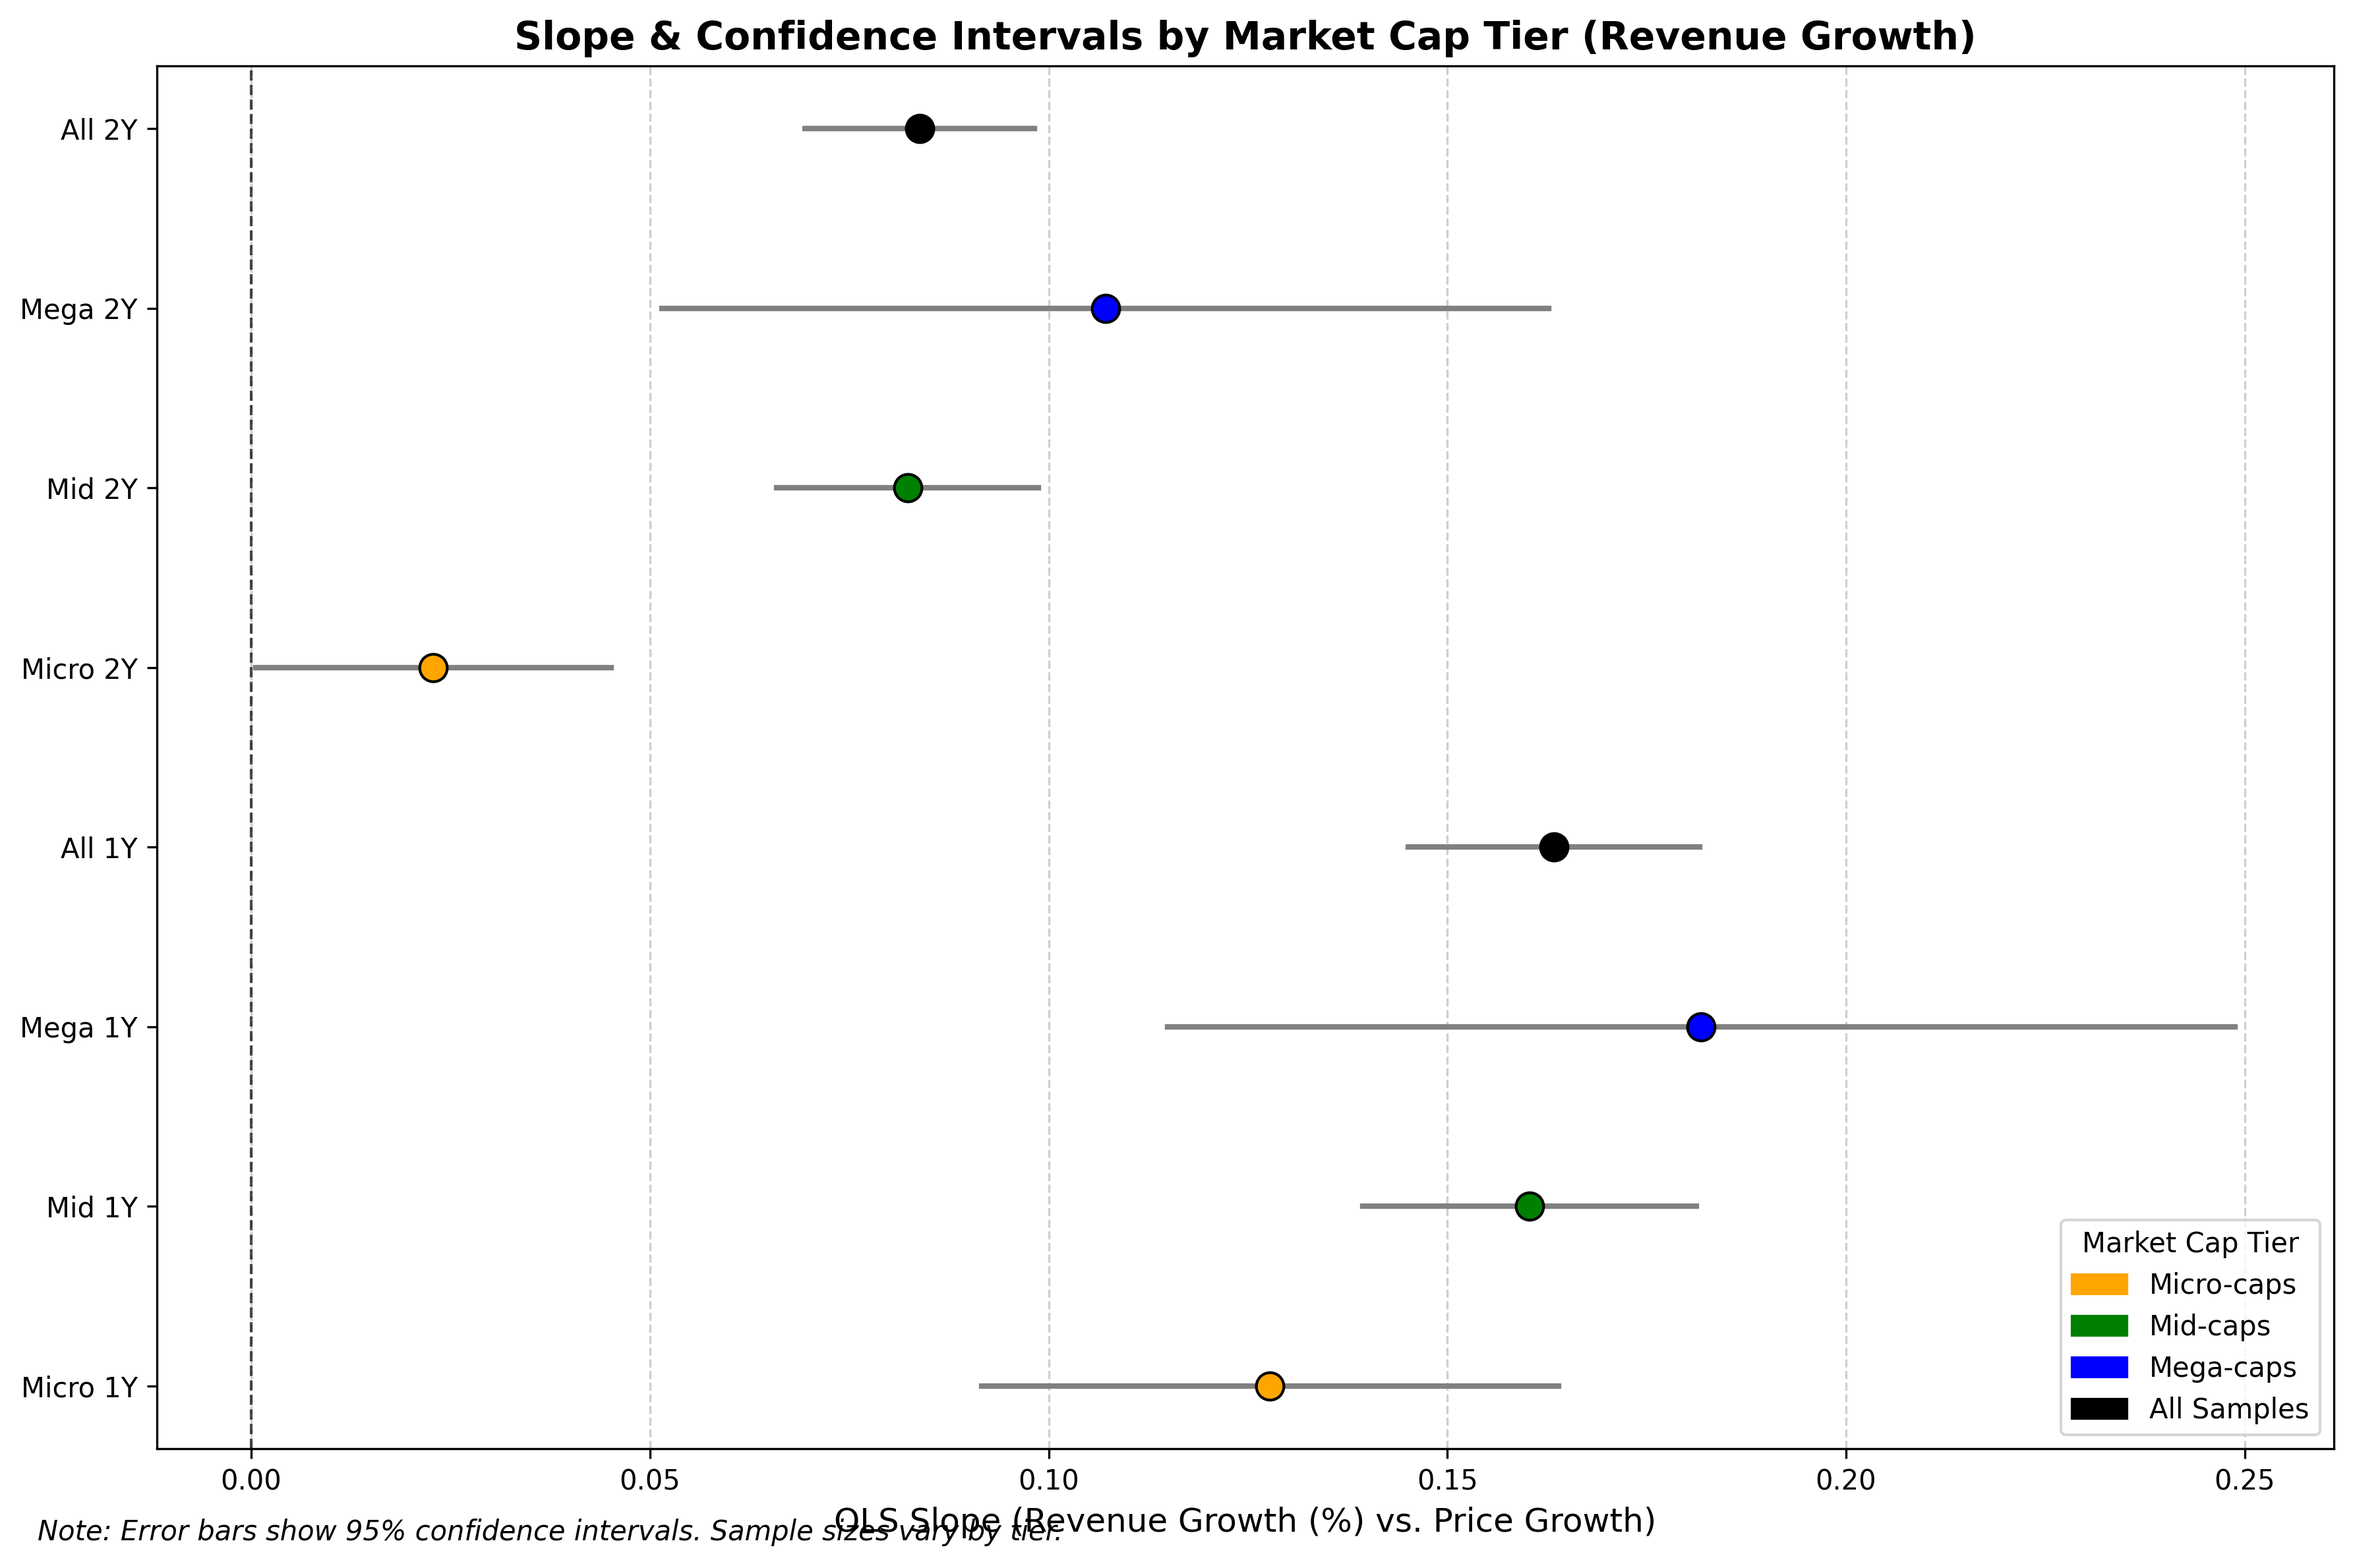
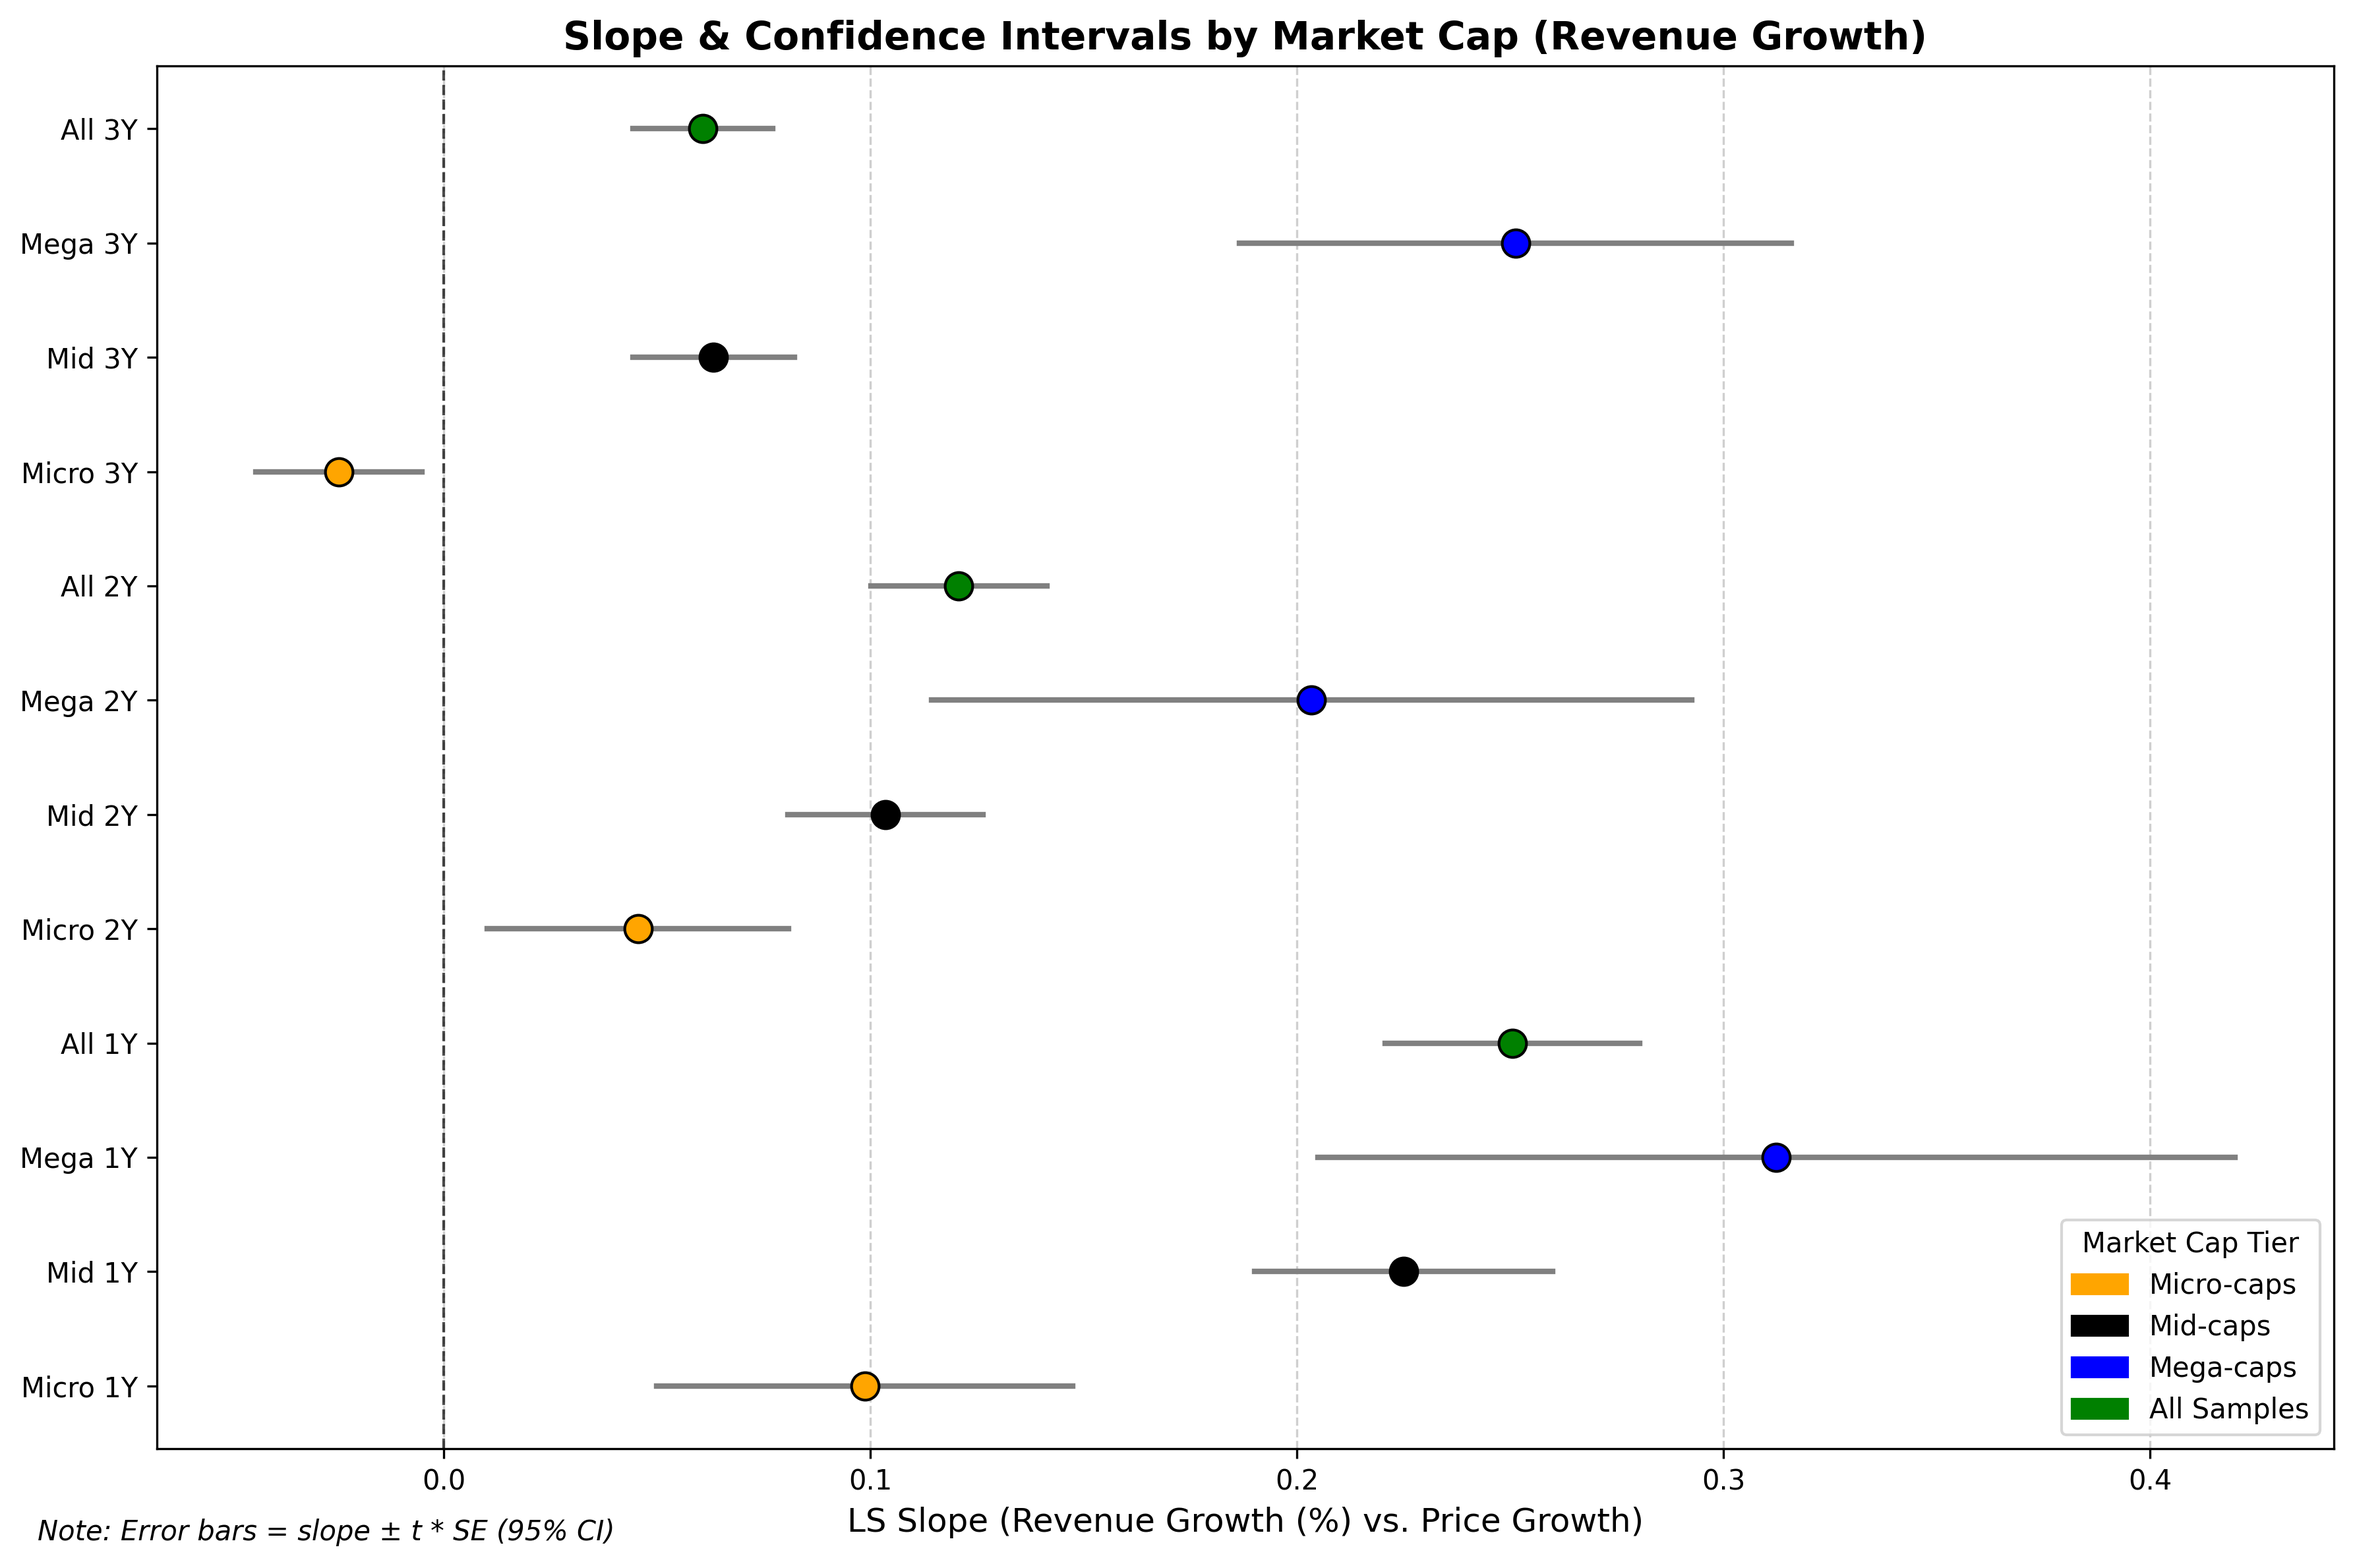
add ci

diff --git a/confidence_interval/ci.py b/confidence_interval/ci.py
@@ -1,7 +1,7 @@
 #!/usr/bin/env python3
 import pandas as pd
 import numpy as np
-import statsmodels.api as sm
+from scipy import stats
 import matplotlib.pyplot as plt
 import matplotlib.patches as mpatches
 import argparse
@@ -108,18 +108,59 @@ def main():
             if len(subdf) < 10:
                 print(f"Skipping {name} {label_suffix}: insufficient data after outlier removal ({len(subdf)} observations)")
                 continue
+            
+            # Manual linear regression calculation
+            x = subdf[x_col].values
+            y = subdf[y_col].values
+            n = len(x)
+            
+            # Calculate means
+            x_mean = np.mean(x)
+            y_mean = np.mean(y)
+            
+            # Calculate slope (β₁) and intercept (β₀)
+            # β₁ = Σ(x_i - x̄)(y_i - ȳ) / Σ(x_i - x̄)²
+            numerator = np.sum((x - x_mean) * (y - y_mean))
+            denominator = np.sum((x - x_mean) ** 2)
+            
+            if denominator == 0:
+                print(f"Skipping {name} {label_suffix}: zero variance in x")
+                continue
                 
-            X = sm.add_constant(subdf[x_col])
-            y = subdf[y_col]
-            model = sm.OLS(y, X).fit()
-            slope = model.params[x_col]
-            ci = model.conf_int().loc[x_col].values
-            print(f"{name} {label_suffix}: Slope = {slope:.4f}, CI = ({ci[0]:.4f}, {ci[1]:.4f}), N = {len(subdf)}")
+            slope = numerator / denominator
+            intercept = y_mean - slope * x_mean
+            
+            # Calculate residuals and standard error
+            y_pred = intercept + slope * x
+            residuals = y - y_pred
+            
+            # Residual sum of squares (RSS)
+            rss = np.sum(residuals ** 2)
+            
+            # Degrees of freedom
+            df = n - 2
+            
+            # Mean squared error (MSE)
+            mse = rss / df
+            
+            # Standard error of the slope
+            # SE(β₁) = √(MSE / Σ(x_i - x̄)²)
+            se_slope = np.sqrt(mse / denominator)
+            
+            # 95% confidence interval using t-distribution
+            # CI = β₁ ± t_{1-α/2, df} * SE(β₁)
+            alpha = 0.05  # for 95% confidence interval
+            t_critical = stats.t.ppf(1 - alpha/2, df)
+            
+            ci_low = slope - t_critical * se_slope
+            ci_high = slope + t_critical * se_slope
+            
+            print(f"{name} {label_suffix}: Slope = {slope:.4f}, CI = ({ci_low:.4f}, {ci_high:.4f}), N = {len(subdf)}")
             rows.append({
                 "Group": f"{name} {label_suffix}",
                 "Slope": slope,
-                "CI_Low": ci[0],
-                "CI_High": ci[1],
+                "CI_Low": ci_low,
+                "CI_High": ci_high,
                 "Color": colors[name],
                 "N": len(subdf)
             })
@@ -147,7 +188,7 @@ def main():
     plt.xlabel(f"LS Slope ({x_label} vs. Price Growth)", fontsize=12)
     
     # Create title with filter information
-    title = f"Slope & Confidence Intervals by Market Cap Tier ({analysis_name})"
+    title = f"Slope & Confidence Intervals by Market Cap ({analysis_name})"
     if index_filter:
         title += f" - {index_filter} Only"
     plt.title(title, fontsize=14, fontweight='bold')
@@ -165,7 +206,7 @@ def main():
     plt.legend(handles=legend_elements, title="Market Cap Tier", loc="lower right")
     
     # Add sample size information
-    plt.figtext(0.02, 0.02, f"Note: Error bars show 95% confidence intervals. Sample sizes vary by tier.", 
+    plt.figtext(0.02, 0.02, f"Note: Error bars = slope ± t * SE (95% CI)", 
                 fontsize=10, style='italic')
     
     # Save plot
